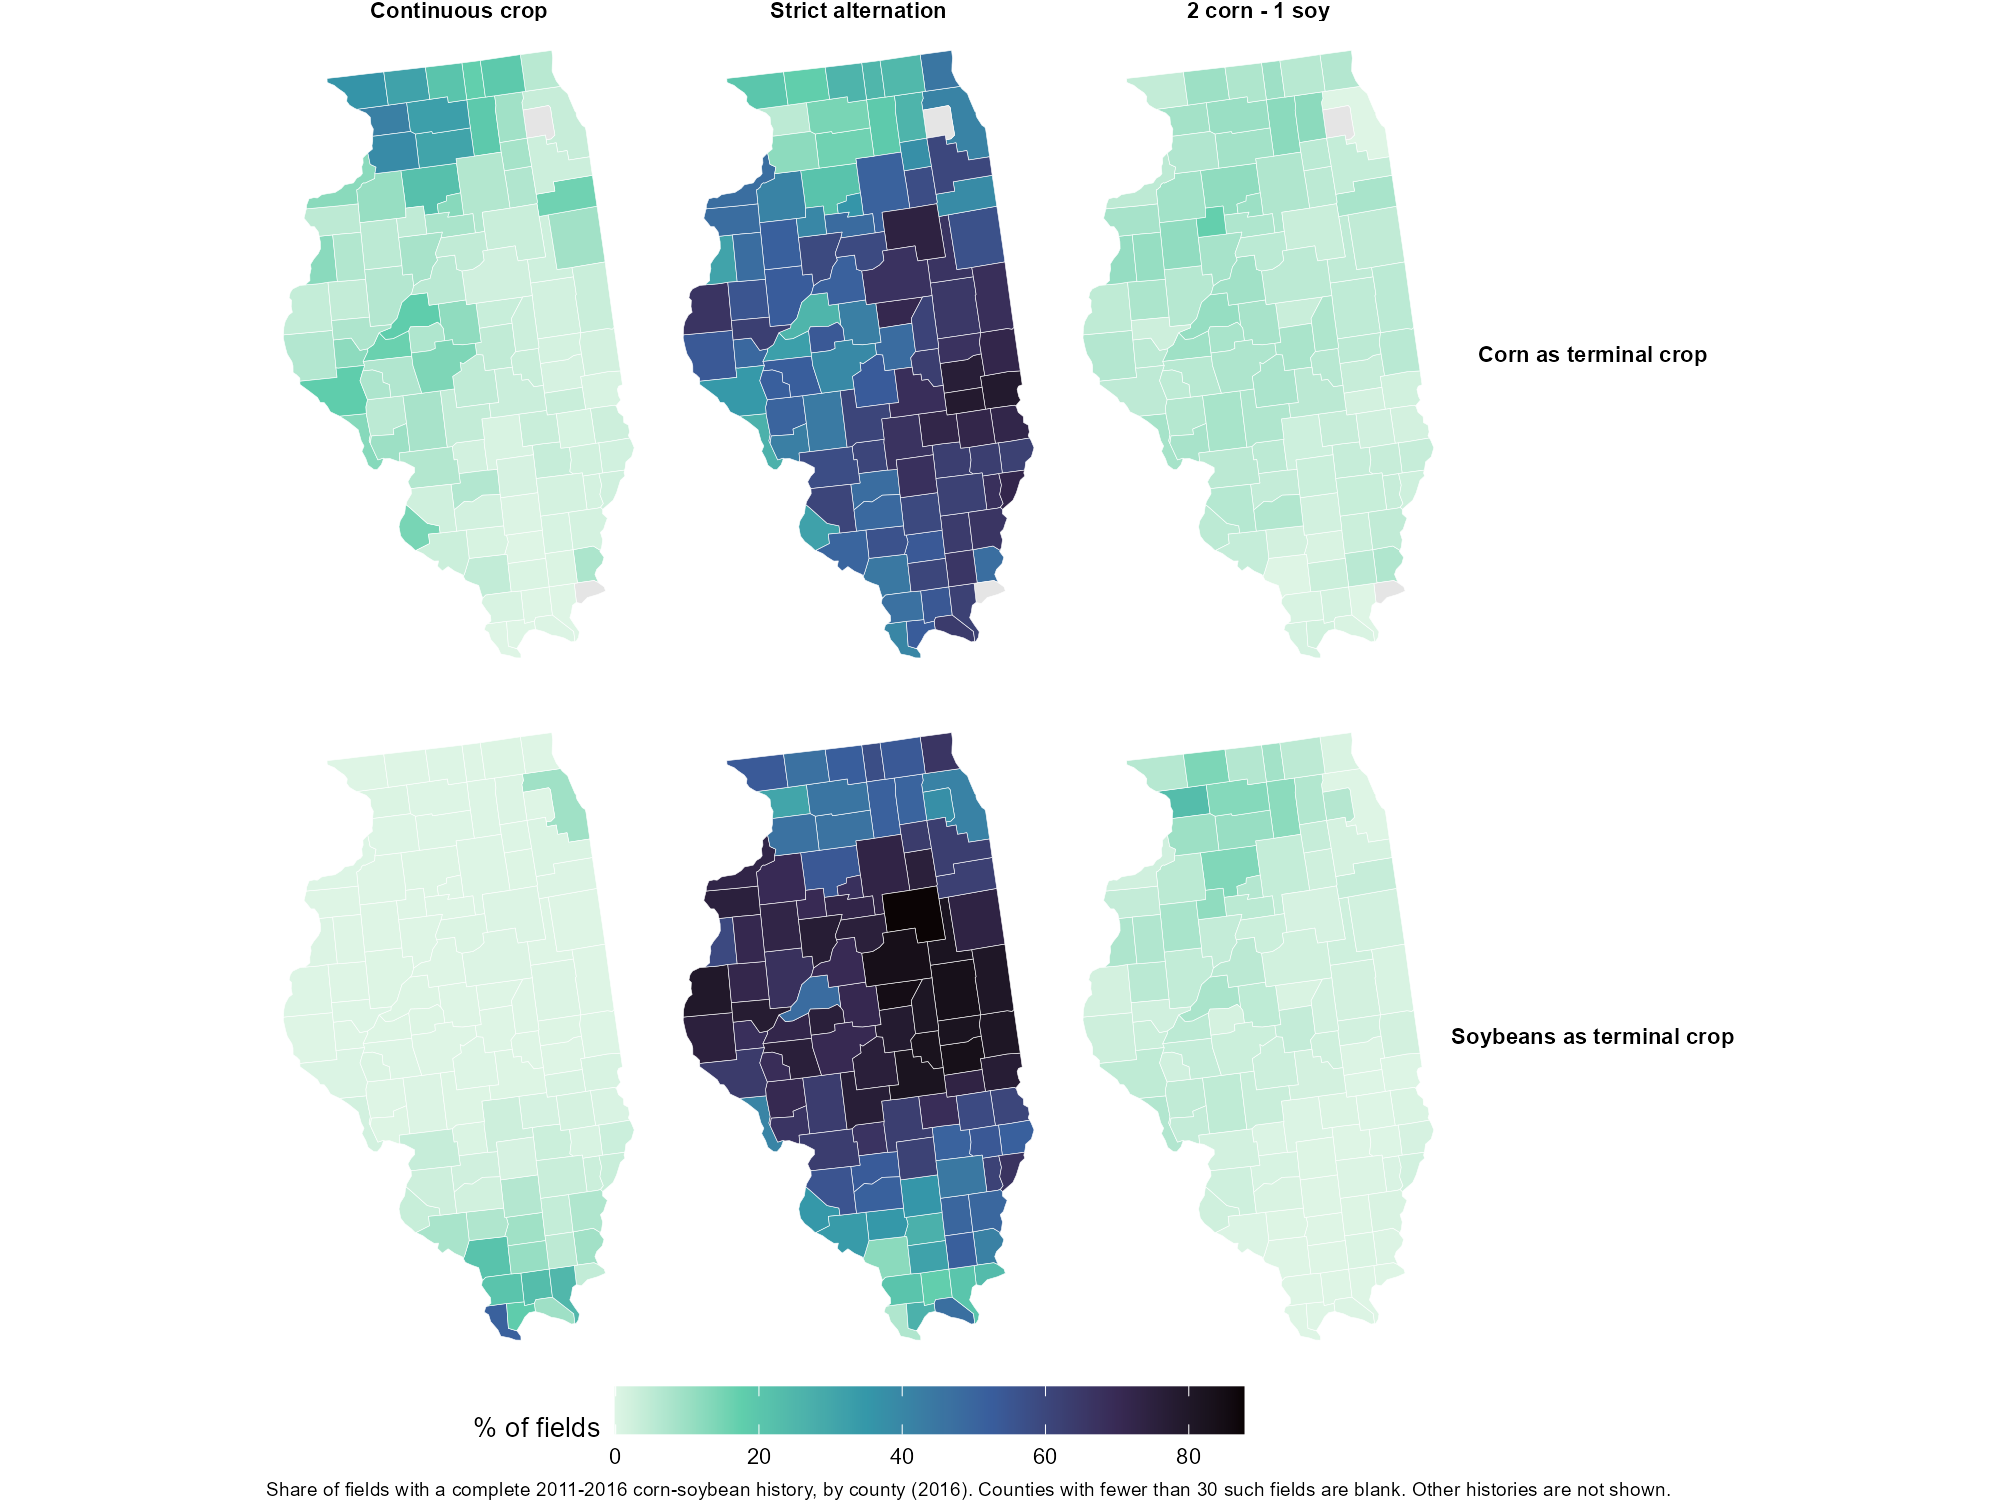
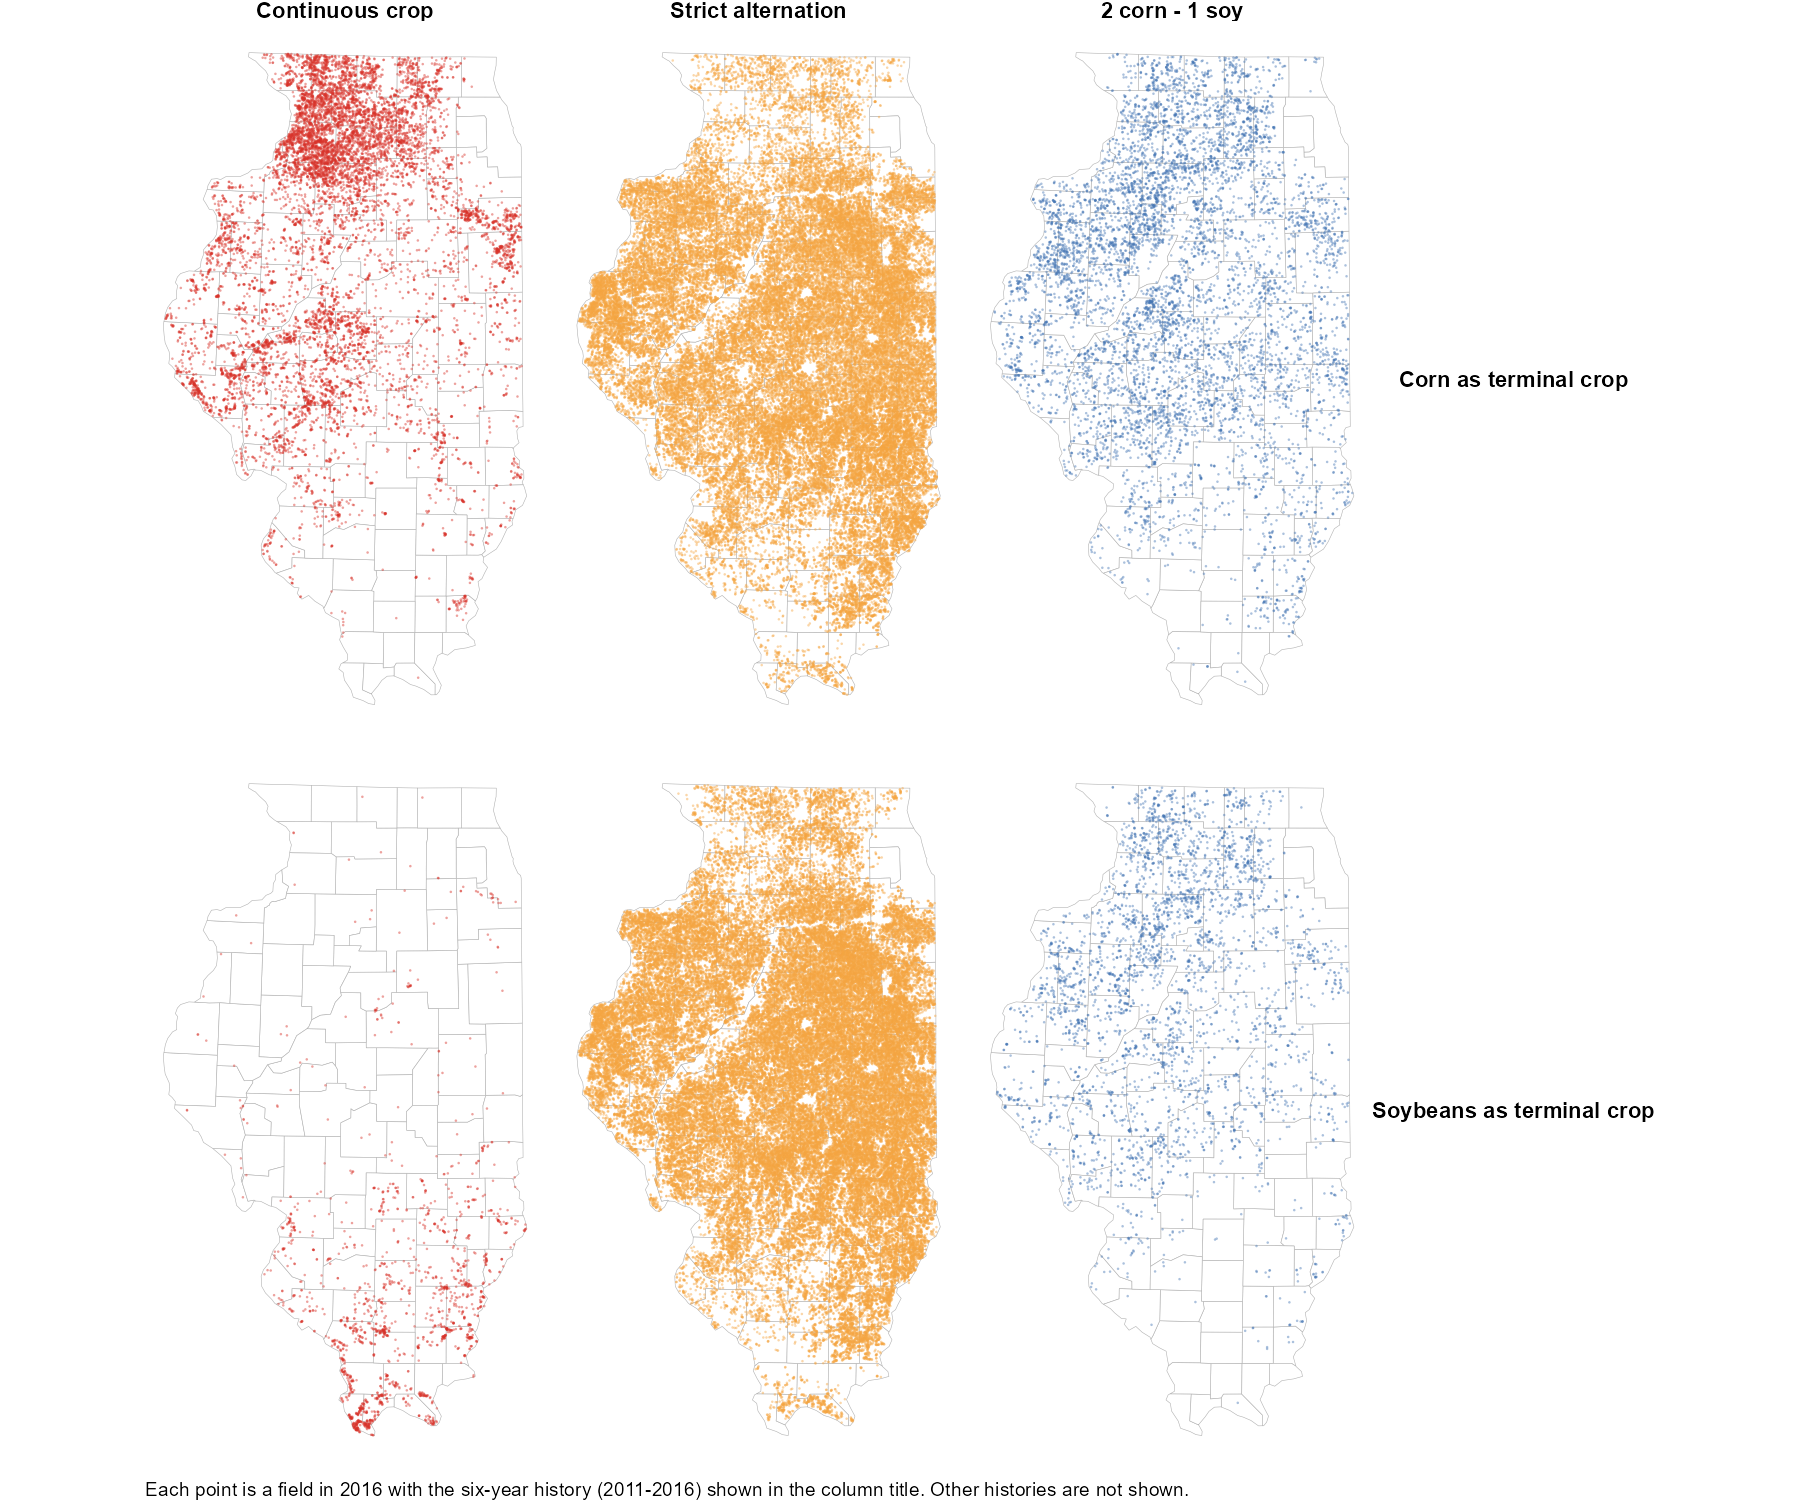
map_practice: field-level points projected to NAD83 / Illinois East (EPSG:26971); update caption and script

diff --git a/crop_rotation_delinquencies.tex b/crop_rotation_delinquencies.tex
@@ -192,7 +192,7 @@ Field boundaries are defined as contiguous CDL pixels of the same crop in a give
 \begin{figure}[htbp]
 \centering
 \includegraphics[width=16cm]{figs/map_practice.png}
-\caption{Rotation practices by county, 2016. Each cell shows the share of fields with the given six-year history (2011--2016), among fields with a complete corn-soybean history; counties with fewer than 30 such fields are blank. The top row conditions on corn as the terminal crop and the bottom row on soybeans. Columns are continuous cropping of the terminal crop, strict alternation, and 2-corn/1-soy; other histories are not shown. The northern concentration of continuous corn is consistent with proximity to biofuel infrastructure \citep{socolar2021}.}
+\caption{Spatial distribution of rotation practices (2016). Each point is a field whose six-year history (2011--2016) matches the practice in the column title; only fields with a complete corn-soybean history are classified, and other histories are not shown. The top row conditions on corn as the terminal crop and the bottom row on soybeans. Columns are continuous cropping of the terminal crop (red), strict alternation (orange), and 2-corn/1-soy (blue). Maps are projected to NAD83 / Illinois East with county boundaries. The northern concentration of continuous corn is consistent with proximity to biofuel infrastructure \citep{socolar2021}.}
 \label{fig:map_practice}
 \end{figure}
  
